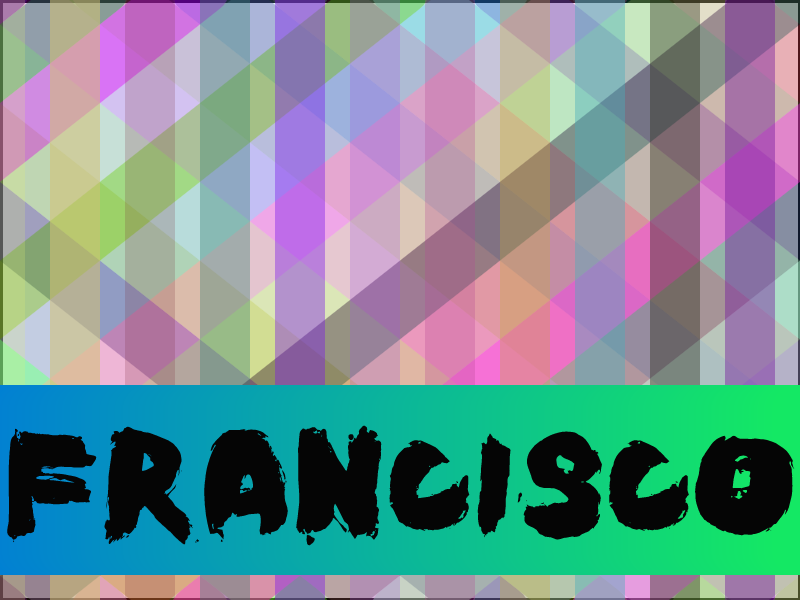
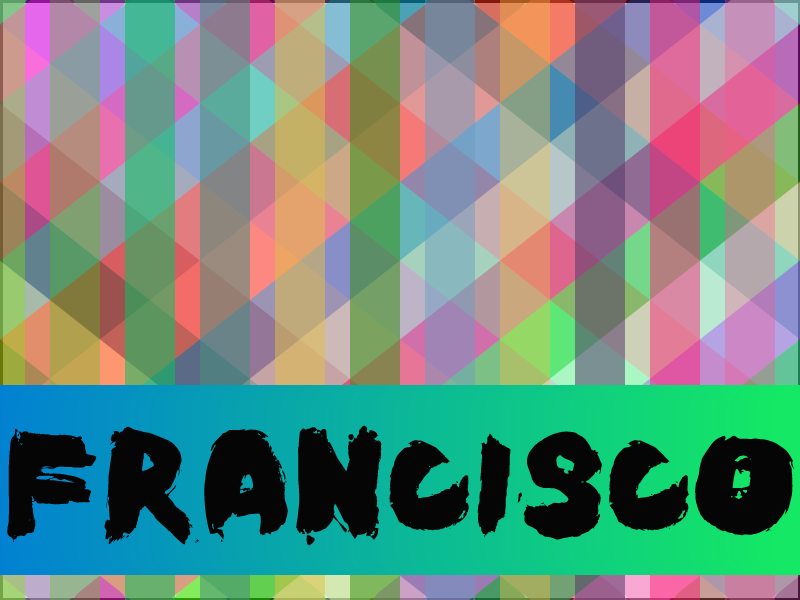
Improved version of Name Tag.

diff --git a/sketch.js b/sketch.js
@@ -3,7 +3,6 @@
 var customFont;
 var myText;
 
-
 // Constants
 var X_AXIS = 1;
 var greenColour, blueColour;
@@ -33,7 +32,7 @@ function draw() {
 
     // lines left to right, top to bottom.
     for (var x1 = -800; x1 <= 800; x1 = x1+100) {
-        stroke(random(255), random(255), random(255), random(50, 150));
+        stroke(random(255), random(255), random(255), random(75, 150));
         strokeWeight(62);
         push();
         line(x1, -15, x1 + 800, 615);
@@ -42,7 +41,7 @@ function draw() {
 
     //lines left to right, bottom to top.
     for (var x1 = 0; x1 <= 1600; x1 = x1+100) {
-        stroke(random(255), random(255), random(255), random(50, 150));
+        stroke(random(255), random(255), random(255), random(75, 150));
         strokeWeight(62);
         push();
         line(x1, -15, x1 -800, 615);
@@ -51,15 +50,18 @@ function draw() {
 
     //vertical lines.
     for (var x1 = 0; x1 <= 800; x1 = x1+75) {
-        stroke(random(255), random(255), random(255), random(50, 150));
+        stroke(random(255), random(255), random(255), random(75, 150));
         strokeWeight(50);
         push();
         line(x1, -15, x1, 615);
         pop();
     }
 
+
     setGradient(0, 410, 800, 140, blueColour, greenColour, X_AXIS);
+
     nameWriter();
+
 }
 
 // save to downloads folder
@@ -88,4 +90,6 @@ function nameWriter() {
     myText = text("Francisco", 5, height-50);
     myText.tint(255, 127);
 }
+
+
 
